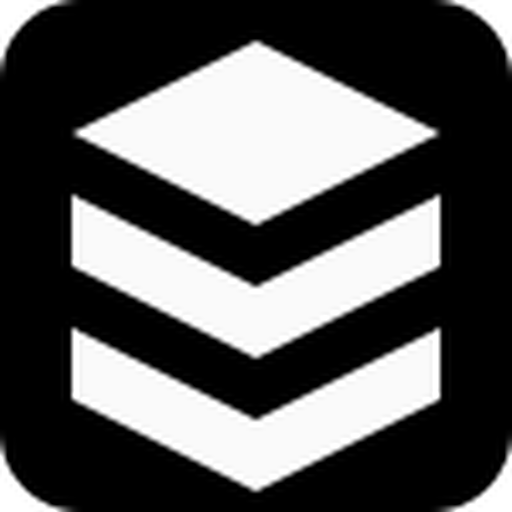
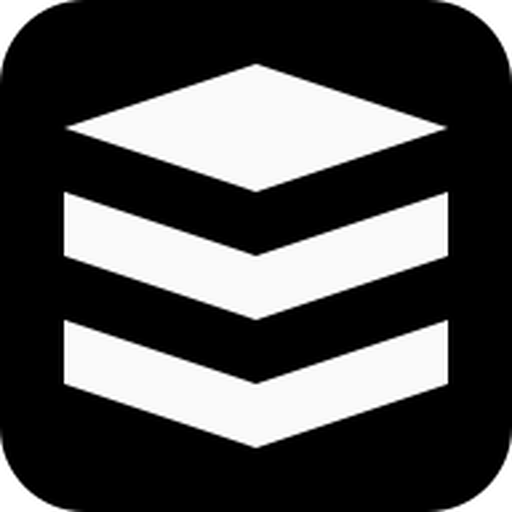
fix(frontend): remove landing CTA footguns and sharpen brand mark

diff --git a/frontend/components/landing/terminal-demo.tsx b/frontend/components/landing/terminal-demo.tsx
@@ -11,7 +11,7 @@ const DEFAULT_DEMO_COMMAND =
   'address local --seed-hex 0707070707070707070707070707070707070707070707070707070707070707 --prefix So --start 0 --end 50000'
 
 type SearchOutcome =
-  | { kind: 'found'; counter: number; address: string; pubkeyHex: string; keypairHex: string; attempts: number; durationMs: number }
+  | { kind: 'found'; counter: number; address: string; pubkeyHex: string; attempts: number; durationMs: number }
   | { kind: 'not_found'; attempts: number; durationMs: number }
 
 function bytesToHex(bytes: Uint8Array): string {
@@ -39,7 +39,7 @@ function encodeCounterLE(counter: number): Uint8Array {
   return out
 }
 
-async function derive(seed: Uint8Array, counter: number): Promise<{ pubkey: Uint8Array; address: string; keypair: Uint8Array }> {
+async function derive(seed: Uint8Array, counter: number): Promise<{ pubkey: Uint8Array; address: string }> {
   const preimage = new Uint8Array(DOMAIN_TAG.length + seed.length + 8)
   preimage.set(DOMAIN_TAG, 0)
   preimage.set(seed, DOMAIN_TAG.length)
@@ -47,10 +47,7 @@ async function derive(seed: Uint8Array, counter: number): Promise<{ pubkey: Uint
   const digest = sha512(preimage)
   const privateKey = digest.slice(0, 32)
   const pubkey = await ed25519.getPublicKeyAsync(privateKey)
-  const keypair = new Uint8Array(64)
-  keypair.set(privateKey, 0)
-  keypair.set(pubkey, 32)
-  return { pubkey, address: bs58.encode(pubkey), keypair }
+  return { pubkey, address: bs58.encode(pubkey) }
 }
 
 async function searchLocal(
@@ -71,7 +68,6 @@ async function searchLocal(
         counter,
         address: kp.address,
         pubkeyHex: bytesToHex(kp.pubkey),
-        keypairHex: bytesToHex(kp.keypair),
         attempts,
         durationMs: performance.now() - started
       }
@@ -167,7 +163,6 @@ export function TerminalDemo() {
               counter: result.counter,
               address: result.address,
               pubkey_hex: result.pubkeyHex,
-              keypair_hex: result.keypairHex,
               attempts: result.attempts,
               duration_ms: Math.round(result.durationMs)
             },

diff --git a/frontend/cypress/e2e/landing-footguns.cy.js b/frontend/cypress/e2e/landing-footguns.cy.js
@@ -1,0 +1,26 @@
+// SPDX-License-Identifier: Apache-2.0
+describe('landing footgun regressions', () => {
+  it('routes hero CTAs to distinct non-doc operational flows', () => {
+    cy.visit('/')
+    cy.window().its('__EDGERUN_HYDRATED').should('eq', true)
+
+    cy.contains('a', 'Run a Job').should('have.attr', 'href', '/run/')
+    cy.contains('a', 'Become a Worker').should('have.attr', 'href', '/workers/')
+  })
+
+  it('uses distinct canonical docs links in footer resources', () => {
+    cy.visit('/')
+    cy.window().its('__EDGERUN_HYDRATED').should('eq', true)
+
+    cy.contains('a', 'Getting Started').should('have.attr', 'href', '/docs/getting-started/quick-start/')
+    cy.contains('a', 'API Reference').should('have.attr', 'href', '/docs/main/api-reference.html')
+  })
+
+  it('does not print keypair_hex in terminal demo output', () => {
+    cy.visit('/')
+    cy.window().its('__EDGERUN_HYDRATED').should('eq', true)
+
+    cy.contains('button', 'run demo').click({ force: true })
+    cy.get('#address-terminal-root', { timeout: 20000 }).should('not.contain.text', 'keypair_hex')
+  })
+})

diff --git a/frontend/components/landing/hero-section.tsx b/frontend/components/landing/hero-section.tsx
@@ -16,8 +16,8 @@ export function HeroSection() {
             Cluster availability is derived from deployed on-chain program IDs.
           </p>
           <div class="flex flex-col items-center justify-center gap-4 sm:flex-row">
-            <a href="/docs/getting-started/quick-start/"><Button size="lg">Open Get Started Guide</Button></a>
-            <a href="/docs/"><Button size="lg" variant="outline">Read Documentation</Button></a>
+            <a href="/run/"><Button size="lg">Run a Job</Button></a>
+            <a href="/workers/"><Button size="lg" variant="outline">Become a Worker</Button></a>
           </div>
           <div class="grid max-w-2xl grid-cols-3 gap-8 pt-10 mx-auto">
             <div class="space-y-2">

diff --git a/frontend/components/footer.tsx b/frontend/components/footer.tsx
@@ -2,6 +2,7 @@
 import { For } from 'solid-js'
 import { FooterLeadForm } from './footer-lead-form'
 import { siteLinks } from '../lib/site-links'
+import { docsApiReferenceHref, docsQuickStartHref } from '../lib/docs-links'
 
 const footerLinks = {
   product: [
@@ -11,8 +12,8 @@ const footerLinks = {
     { href: '/docs/', label: 'Documentation' }
   ],
   resources: [
-    { href: '/docs/', label: 'Getting Started' },
-    { href: '/docs/', label: 'API Reference' },
+    { href: docsQuickStartHref(), label: 'Getting Started' },
+    { href: docsApiReferenceHref('main'), label: 'API Reference' },
     { href: '/blog/', label: 'Blog' },
     { href: '/style-guide/', label: 'Style Guide' }
   ],

diff --git a/docs/specs/FRONTEND_LANDING_CTA_AND_DEMO_FOOTGUN_FIXES_V1.md b/docs/specs/FRONTEND_LANDING_CTA_AND_DEMO_FOOTGUN_FIXES_V1.md
@@ -1,0 +1,26 @@
+# Frontend Landing CTA and Demo Footgun Fixes V1
+
+## Goal
+- Remove misleading landing-page CTA routing where both hero CTAs send users into docs flows.
+- Remove duplicate destination ambiguity in footer resource links.
+- Remove private-key-like output from the browser terminal demo payload to prevent unsafe copy/paste behavior.
+
+## Non-goals
+- No redesign of landing layout or typography.
+- No changes to backend APIs or scheduler behavior.
+- No changes to docs generation pipelines beyond link targets.
+
+## Security and constraints
+- Keep changes localized to frontend landing/footer/demo components.
+- Preserve deterministic demo behavior while reducing sensitive output exposure.
+- Keep build/test workflows on `bun`.
+
+## Acceptance criteria
+- Hero CTAs route to distinct operational paths (not both docs).
+- Footer "Getting Started" and "API Reference" route to distinct canonical docs targets.
+- Terminal demo output no longer includes `keypair_hex`.
+- Frontend check/build pass and E2E assertions cover these outcomes.
+
+## Rollout and rollback
+- Rollout: ship link/output fixes with Cypress coverage for landing CTA/link correctness and demo output guard.
+- Rollback: revert touched components/spec if this blocks onboarding flows.
